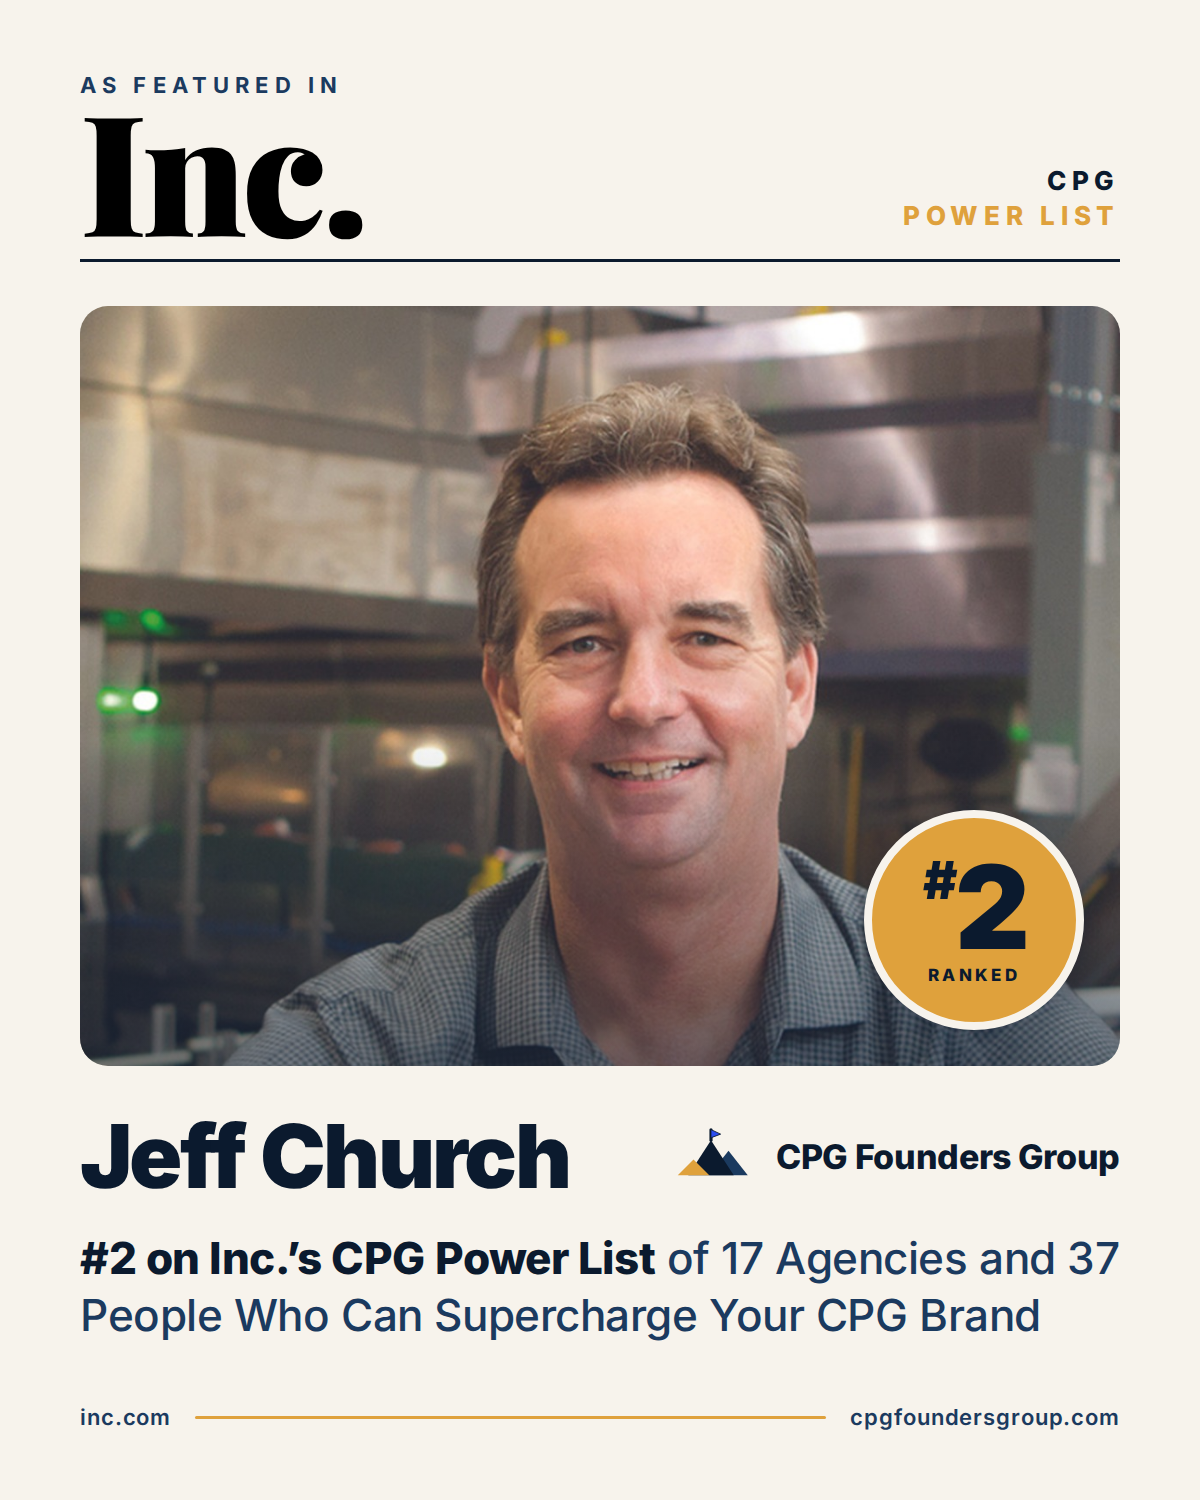
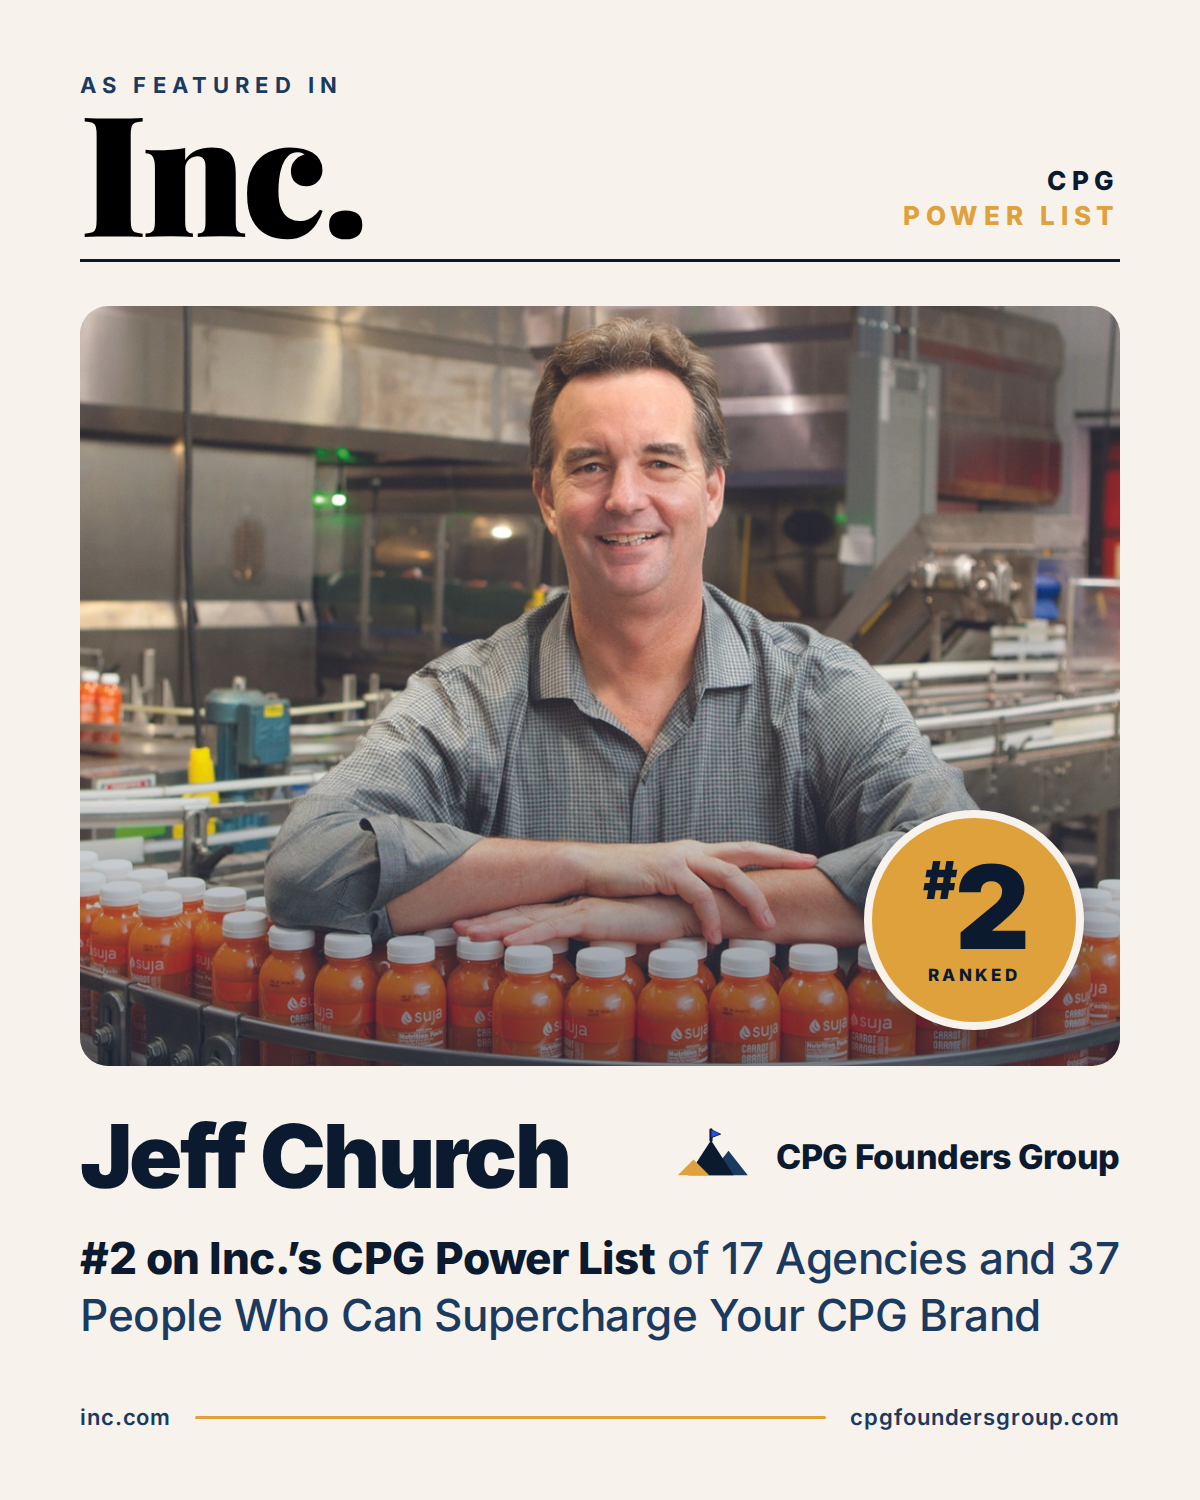
Inc graphic: use the wide Suja production line photo

diff --git a/Inc Power List Graphic/inc-power-list.html b/Inc Power List Graphic/inc-power-list.html
@@ -59,7 +59,7 @@
     height: 760px;
     border-radius: 28px;
     overflow: hidden;
-    background: url('jeff.jpg') center 18% / cover no-repeat;
+    background: url('jeff.jpg') center 22% / cover no-repeat;
   }
   .photo::after {
     content: ''; position: absolute; inset: 0;
